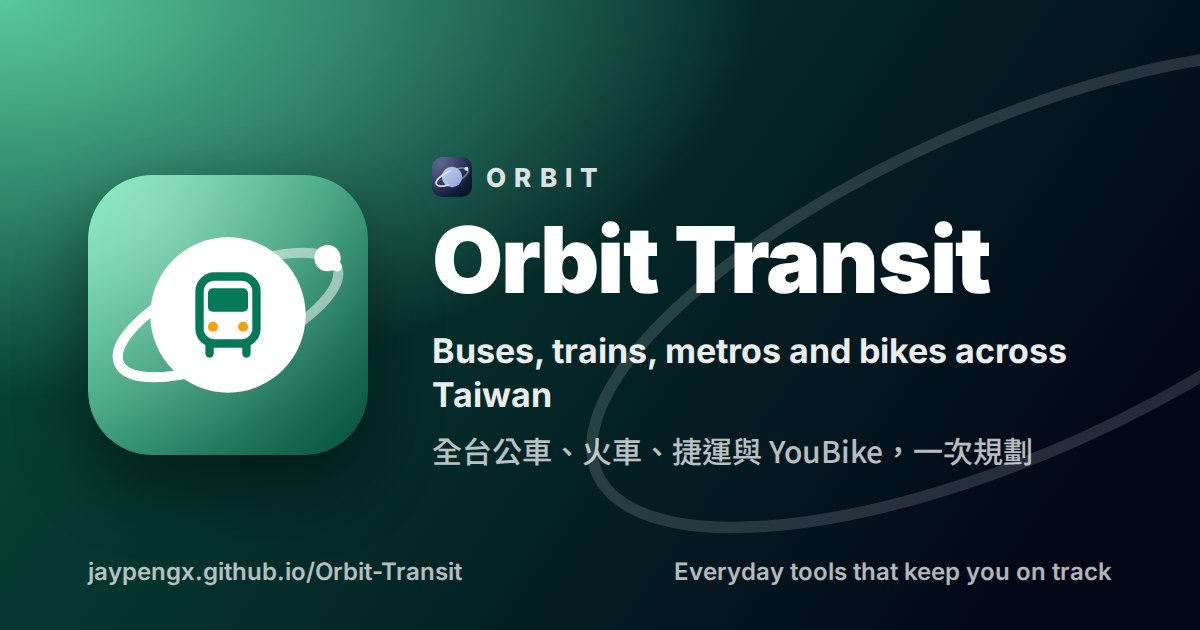
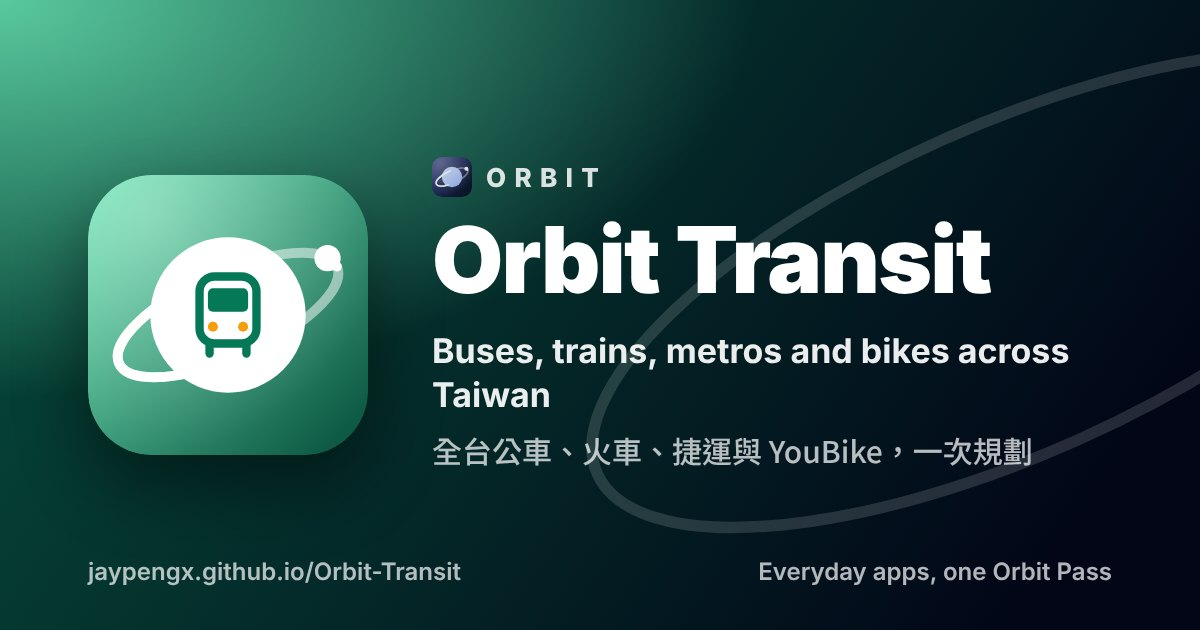
Quadra is now Orbit: Orbit Pass, Orbit Securities, one family; kit orbit.mjs/orbit.css, ORBIT_KIT, orbit.* keys
Claude-Session: https://claude.ai/code/session_017Z8MjamomJpVEaRoiMWmHA

diff --git a/public/index.html b/public/index.html
@@ -44,14 +44,14 @@
 <link rel="preconnect" href="https://orbit-workers-proxy.pengzjay.workers.dev" crossorigin />
 <!-- kit:head: where the app's stylesheets end, before any module. The kit
      comes from one place for every app (Shared-Proxy's GitHub Pages, same
-     site as the apps), each file at the hash this device last saw (quadra.kit
-     and quadra.kitFiles, noted from the kit's version.json by boot.js and
-     quadra.mjs kitLatest; on a first visit the hashes the app's deploy
+     site as the apps), each file at the hash this device last saw (orbit.kit
+     and orbit.kitFiles, noted from the kit's version.json by boot.js and
+     orbit.mjs kitLatest; on a first visit the hashes the app's deploy
      baked in, the `null` at the end), so a change to the kit is one push
      to Shared-Proxy and a phone downloads only the files it changed. A kit
      file newer than the app's deploy (not in its list) is mapped from those
      hashes too, never left at a bare address the browser keeps 10 minutes. -->
-<script>!function(b,d,v,h,n,m,f,i,u){try{v=localStorage.getItem('quadra.kit')||'';h=JSON.parse(localStorage.getItem('quadra.kitFiles')||'null')}catch(e){v=''}n=!!v;if(!n&&d){v=d.version;h=d}h=h&&h.version===v?h.files:null;u=function(x){var k=h&&h[x];return b+x+(k?'?v='+k:v?'?v='+encodeURIComponent(v):'')};m={'#kit/':b};f=['brand.mjs','catalog.mjs','devconfig.mjs','f1live.mjs','format.mjs','gov.mjs','help.mjs','holidays.mjs','lang.mjs','loan.mjs','logos.mjs','mirror.mjs','names.mjs','pass-sync.mjs','pass.mjs','photo-urls.mjs','photos.mjs','play-alive.mjs','play-bets.mjs','play-board.mjs','play-boardfile.mjs','play-cashout.mjs','play-house.mjs','play-kambi.mjs','play-lines.mjs','play-live.mjs','play-lottery.mjs','play-markets.mjs','play-odds.mjs','play-offers.mjs','play-players.mjs','play-propmodel.mjs','play-props.mjs','play-recommend.mjs','play-rules.mjs','play-schedules.mjs','play-scratch.mjs','play-sources.mjs','play-teams.mjs','plus.mjs','postseason.mjs','quadra.mjs','settle.mjs','sports-broadcast.mjs','sports-espn.mjs','sports-highlights.mjs','sports-winprob.mjs','stock-account.mjs','stock-bonds.mjs','stock-codec.mjs','stock-credit.mjs','stock-hk-lots.mjs','stock-holidays.mjs','stock-ipo.mjs','stock-jp-lists.mjs','stock-markets.mjs','stock-quotes.mjs','stock-savings.mjs','truth.mjs','ui.mjs'];for(i=0;i<f.length;i++)m['#kit/'+f[i]]=u(f[i]);if(h)for(i in h)/\.mjs$/.test(i)&&(m['#kit/'+i]=u(i));window.QUADRA_KIT={base:b,version:v,noted:n,url:u};document.write('<script type="import'+'map">'+JSON.stringify({imports:m})+'<\/script><link rel="stylesheet" href="'+u('quadra.css')+'"><link rel="modulepreload" href="'+u('quadra.mjs')+'"><link rel="modulepreload" href="'+u('brand.mjs')+'">')}('../Shared-Proxy/kit/',null)</script>
+<script>!function(b,d,v,h,n,m,f,i,u){try{v=localStorage.getItem('orbit.kit')||'';h=JSON.parse(localStorage.getItem('orbit.kitFiles')||'null')}catch(e){v=''}n=!!v;if(!n&&d){v=d.version;h=d}h=h&&h.version===v?h.files:null;u=function(x){var k=h&&h[x];return b+x+(k?'?v='+k:v?'?v='+encodeURIComponent(v):'')};m={'#kit/':b};f=['brand.mjs','catalog.mjs','dayoff.mjs','devconfig.mjs','f1live.mjs','format.mjs','gov.mjs','help.mjs','holidays.mjs','lang.mjs','loan.mjs','logos.mjs','mirror.mjs','names.mjs','orbit.mjs','pass-sync.mjs','pass.mjs','photo-urls.mjs','photos.mjs','play-alive.mjs','play-bets.mjs','play-board.mjs','play-boardfile.mjs','play-house.mjs','play-kambi.mjs','play-lines.mjs','play-live.mjs','play-lottery.mjs','play-markets.mjs','play-odds.mjs','play-offers.mjs','play-players.mjs','play-props.mjs','play-recommend.mjs','play-rules.mjs','play-schedules.mjs','play-scratch.mjs','play-sources.mjs','play-teams.mjs','postseason.mjs','settle.mjs','sports-broadcast.mjs','sports-espn.mjs','sports-highlights.mjs','sports-winprob.mjs','stock-account.mjs','stock-bonds.mjs','stock-codec.mjs','stock-credit.mjs','stock-hk-lots.mjs','stock-holidays.mjs','stock-ipo.mjs','stock-jp-lists.mjs','stock-markets.mjs','stock-quotes.mjs','stock-savings.mjs','ui.mjs'];for(i=0;i<f.length;i++)m['#kit/'+f[i]]=u(f[i]);if(h)for(i in h)/\.mjs$/.test(i)&&(m['#kit/'+i]=u(i));window.ORBIT_KIT={base:b,version:v,noted:n,url:u};document.write('<script type="import'+'map">'+JSON.stringify({imports:m})+'<\/script><link rel="stylesheet" href="'+u('orbit.css')+'"><link rel="modulepreload" href="'+u('orbit.mjs')+'"><link rel="modulepreload" href="'+u('brand.mjs')+'">')}('../Shared-Proxy/kit/',null)</script>
 <!-- /kit:head -->
 <link rel="stylesheet" href="./transit.css" />
 <!-- The map's library, asked as the page opens (the provider kept from the
@@ -62,7 +62,7 @@
 <body class="tab-map">
 <div id="loading" data-title="Orbit Transit"></div>
 <!-- kit:boot: right after <div id="loading">. -->
-<script>document.write('<script src="'+QUADRA_KIT.url('boot.js')+'"><\/script>')</script>
+<script>document.write('<script src="'+ORBIT_KIT.url('boot.js')+'"><\/script>')</script>
 <!-- /kit:boot -->
 <header class="q-appbar">
   <div class="q-appbar-inner">

diff --git a/public/sw.js b/public/sw.js
@@ -4,5 +4,5 @@
 // isn't the one its address names (GitHub's CDN can answer a new address
 // with the old file for a while after a deploy).
 // Transit data lives in its own cache (orbit-transit-data), kept across versions.
-self.QUADRA_SW = { cache: 'orbit-transit-v1', spare: ['orbit-transit-data'], title: 'Orbit Transit' };
+self.ORBIT_SW = { cache: 'orbit-transit-v1', spare: ['orbit-transit-data'], title: 'Orbit Transit' };
 importScripts('../Shared-Proxy/kit/sw.js');

diff --git a/public/transit.css b/public/transit.css
@@ -1,4 +1,4 @@
-/* Orbit Transit on the Quadra kit (quadra.css and its Premium layer): the
+/* Orbit Transit on the Orbit kit (orbit.css and its Premium layer): the
    kit's page heads, hero cards, tiles, row cards, tags and rails, the app's
    green, every colour a kit token so light and dark follow the phone. The
    app's own pieces are the map and what sits on it (the search, the

diff --git a/README.md b/README.md
@@ -2,7 +2,7 @@
 
 Taiwan's public transport in one app: buses, 台鐵, 高鐵, the metros and
 YouBike; trips planned the way a person really travels; navigation that
-follows the trip. Signs in with the Quadra Pass, which keeps places, trips
+follows the trip. Signs in with the Orbit Pass, which keeps places, trips
 and pins. Light or dark follows the phone; the look is `lib/look.mjs` on the kit.
 
 Live: https://jaypengx.github.io/Orbit-Transit/
